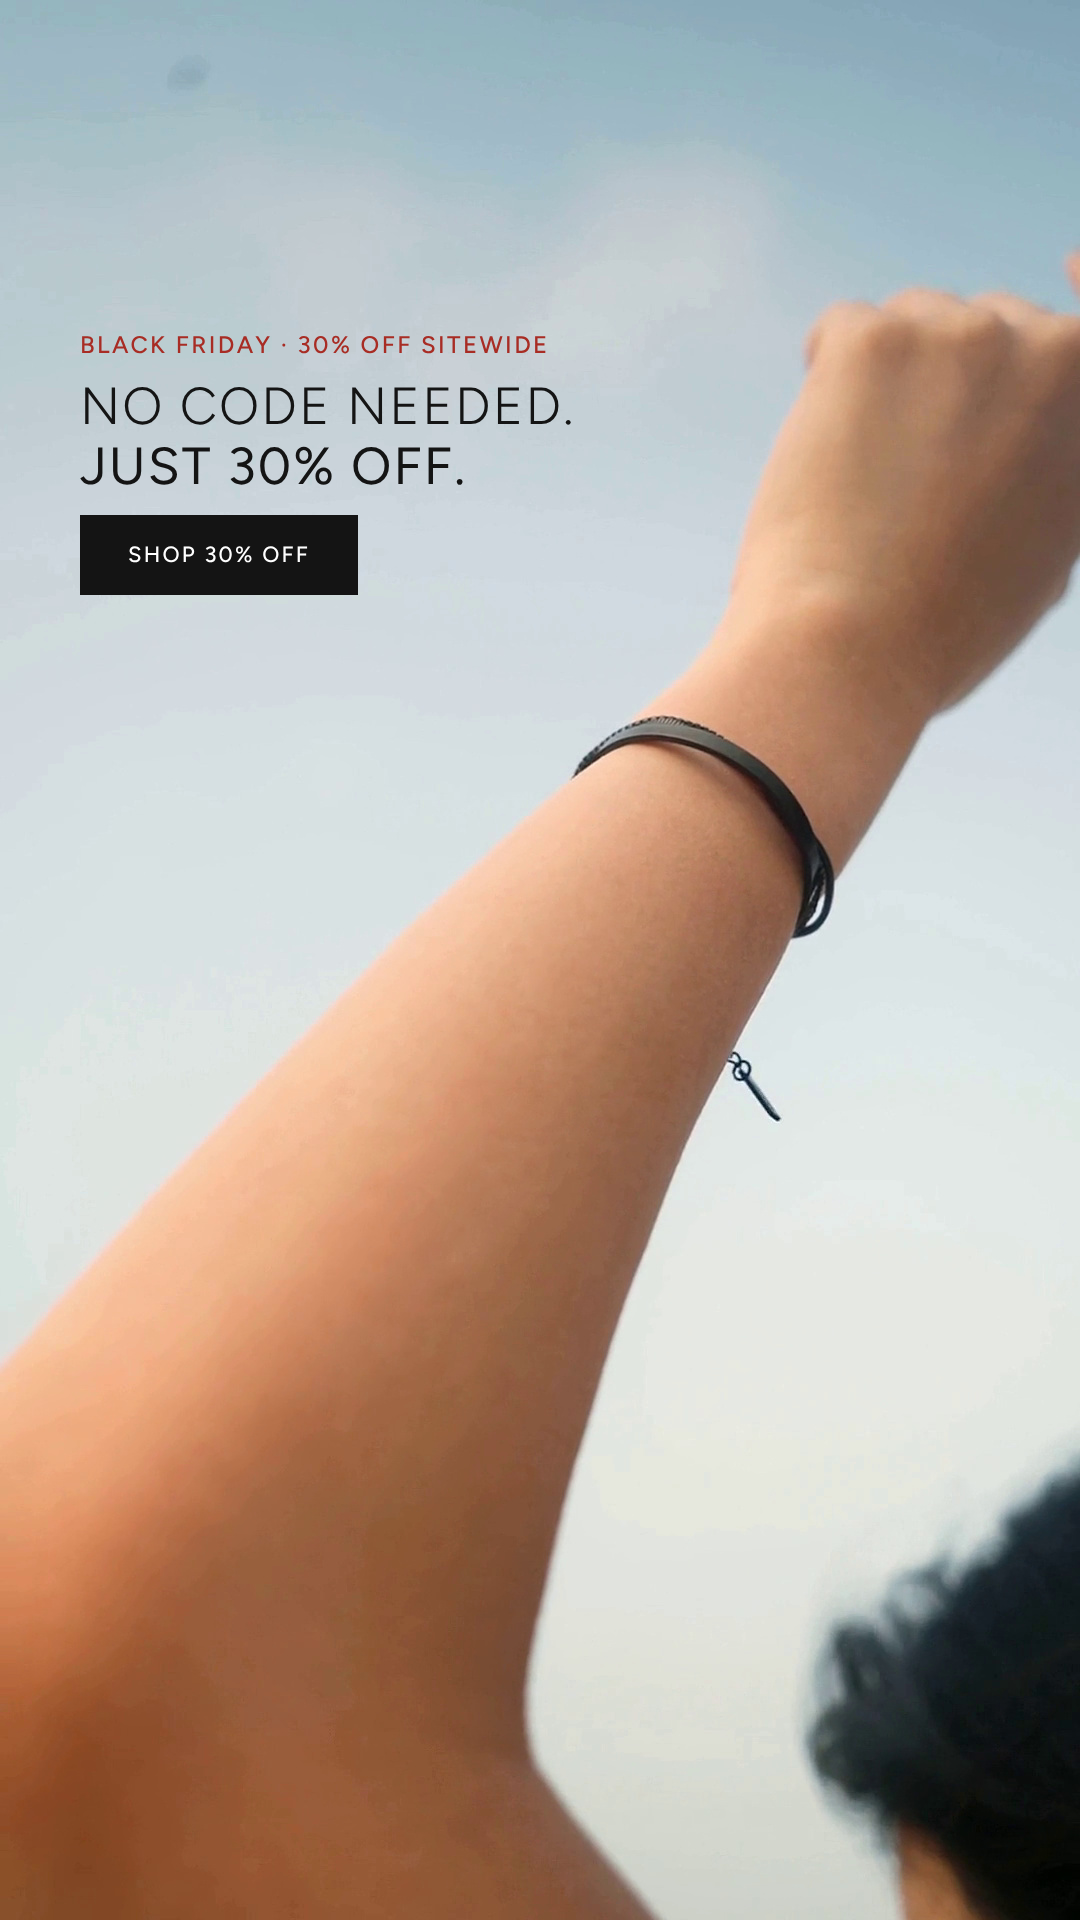
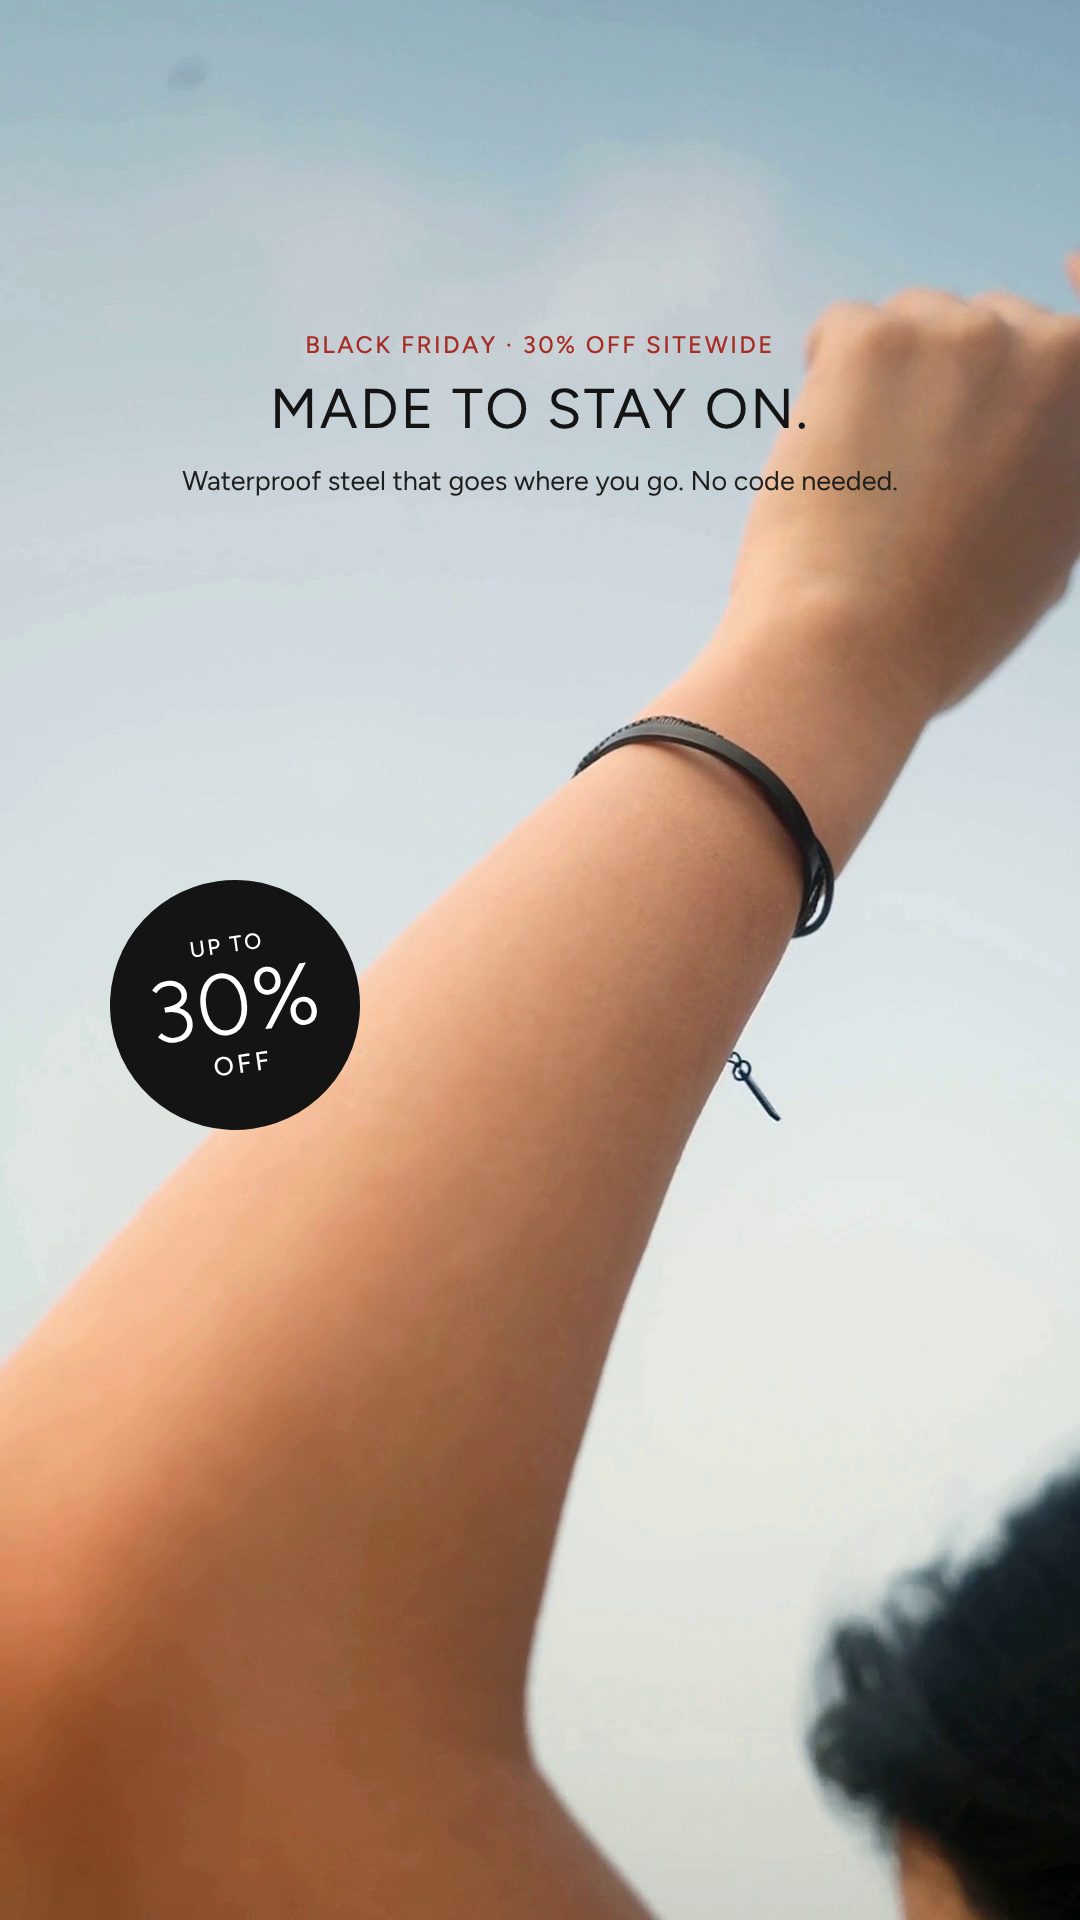
W424 statics redesigned on IM8 references (refs board added); rule: stills from video still follow the IM8 flow
Claude-Session: https://claude.ai/code/session_01LtGMNmy7hV4kZNsS3Vsb6Q

Changed region(s): [[0.0611, 0.1562, 0.7333, 0.3125], [0.0917, 0.4375, 0.3361, 0.5938]]

diff --git a/bfcm26/canvas/W424-C2.dc.html b/bfcm26/canvas/W424-C2.dc.html
@@ -2,7 +2,7 @@
 <html lang="en">
 <head>
 <meta charset="utf-8">
-<title>W Batch 424 - C2 Sea air</title>
+<title>W Batch 424 - C2 Waterproof list (IM8 r18)</title>
 <script src="./support.js"></script>
 </head>
 <body>
@@ -14,13 +14,12 @@ body{margin:0}
 a{color:#141414}a:hover{color:#000000}
 </style>
 </helmet>
-<div style="width: 1080px; height: 1920px; position: relative; overflow: hidden; background: #E9E5DE; font-family: Figtree, sans-serif; color: #141414">
-
-
-<img src="/_blob/08acbbbc3ef5076e01570003f922c095" alt="An arm held out over the sea wearing black chains, sand below" style="position: absolute; top: 0; left: 0; width: 1080px; height: 1920px; object-fit: cover; display: block">
-<div style="position: absolute; top: 1260px; left: 80px; width: 920px; display: flex; flex-direction: column; align-items: flex-start; gap: 18px; text-align: left">
+<div style="width: 1080px; height: 1920px; position: relative; overflow: hidden; background: #F3F0EB; font-family: Figtree, sans-serif; color: #141414">
+<img src="/_blob/08acbbbc3ef5076e01570003f922c095" alt="An arm held out over the sea wearing black chains" style="position: absolute; top: 300px; left: 0; width: 500px; height: 1240px; object-fit: cover; object-position: 72% 50%; display: block">
+<div style="position: absolute; top: 470px; left: 550px; width: 470px; display: flex; flex-direction: column; align-items: flex-start; gap: 26px">
 <span style="font-size: 22px; font-weight: 500; letter-spacing: 0.1em; color: #A82C24">BLACK FRIDAY · 30% OFF SITEWIDE</span>
-<h1 style="margin: 0; font-size: 52px; line-height: 1.15; letter-spacing: 0.04em; font-weight: 300; text-transform: uppercase">Waterproof.<br><span style="font-weight: 400">30% off.</span></h1>
+<h1 style="margin: 0; font-size: 46px; line-height: 1.2; letter-spacing: 0.04em; font-weight: 300; text-transform: uppercase"><span style="font-weight: 500">Waterproof.</span><br>Recycled 316L.<br>Sizes S/M/L.</h1>
+<ul style="margin: 0; padding: 0; list-style: none; display: flex; flex-direction: column; gap: 18px; font-size: 26px; font-weight: 400; color: #2E2E2C"><li style="display: flex; align-items: center; gap: 16px"><span style="width: 10px; height: 10px; border: 2px solid #141414; border-radius: 50%; flex: none"></span>Sweat and heat resistant</li><li style="display: flex; align-items: center; gap: 16px"><span style="width: 10px; height: 10px; border: 2px solid #141414; border-radius: 50%; flex: none"></span>Black, silver or gold</li><li style="display: flex; align-items: center; gap: 16px"><span style="width: 10px; height: 10px; border: 2px solid #141414; border-radius: 50%; flex: none"></span>Jewelry case included</li><li style="display: flex; align-items: center; gap: 16px"><span style="width: 10px; height: 10px; border: 2px solid #141414; border-radius: 50%; flex: none"></span>Free shipping</li><li style="display: flex; align-items: center; gap: 16px"><span style="width: 10px; height: 10px; border: 2px solid #141414; border-radius: 50%; flex: none"></span>Trustpilot 4.5 · 3,000+ reviews</li></ul>
 <a href="https://cavaier.com/products/3x-minimal-stack-set-for-her" style="display: inline-flex; align-items: center; justify-content: center; height: 80px; padding: 0 48px; background: #141414; color: #FFFFFF; text-decoration: none; font-size: 22px; font-weight: 500; letter-spacing: 0.1em">SHOP 30% OFF</a>
 </div>
 </div>

diff --git a/bfcm26/canvas/W424-C1.dc.html b/bfcm26/canvas/W424-C1.dc.html
@@ -2,7 +2,7 @@
 <html lang="en">
 <head>
 <meta charset="utf-8">
-<title>W Batch 424 - C1 Golden stack</title>
+<title>W Batch 424 - C1 Sun salt sea (IM8 r1)</title>
 <script src="./support.js"></script>
 </head>
 <body>
@@ -14,15 +14,14 @@ body{margin:0}
 a{color:#141414}a:hover{color:#000000}
 </style>
 </helmet>
-<div style="width: 1080px; height: 1920px; position: relative; overflow: hidden; background: #EFEDEA; font-family: Figtree, sans-serif; color: #141414">
-
-
-<img src="/_blob/6f2f4e17ab27749d6e08ca36ed9cb5ae" alt="The gold 3x Minimal - Stack Set shining on a sun-kissed wrist resting in the sand" style="position: absolute; top: 0; left: 0; width: 1080px; height: 1090px; object-fit: cover; object-position: 50% 42%; display: block">
-<div style="position: absolute; top: 1125px; left: 0; width: 1080px; display: flex; flex-direction: column; align-items: center; gap: 18px; text-align: center">
-<img src="/_blob/b5d78a878b48e10609c923597dd1852e" alt="Cavaier" style="width: 110px; height: auto; display: block">
+<div style="width: 1080px; height: 1920px; position: relative; overflow: hidden; background: #EEEAE4; font-family: Figtree, sans-serif; color: #141414">
+<img src="/_blob/6f2f4e17ab27749d6e08ca36ed9cb5ae" alt="The gold 3x Minimal - Stack Set shining on a sun-kissed wrist resting in the sand" style="position: absolute; top: 0; left: 0; width: 1080px; height: 1060px; object-fit: cover; object-position: 50% 46%; display: block">
+<img src="/_blob/b5d78a878b48e10609c923597dd1852e" alt="Cavaier" style="position: absolute; top: 300px; left: 485px; width: 110px; height: auto; display: block">
+<div style="position: absolute; top: 1060px; left: 0; width: 1080px; height: 860px; background: #EEEAE4"></div>
+<div style="position: absolute; top: 1110px; left: 80px; width: 920px; display: flex; flex-direction: column; align-items: flex-start; gap: 18px">
 <span style="font-size: 22px; font-weight: 500; letter-spacing: 0.1em; color: #A82C24">BLACK FRIDAY · 30% OFF SITEWIDE</span>
-<h1 style="margin: 0; font-size: 52px; line-height: 1.15; letter-spacing: 0.04em; font-weight: 300; text-transform: uppercase">The golden stack.<br><span style="font-weight: 400">30% off.</span></h1>
-<p style="margin: 0; font-size: 27px; line-height: 1.6; font-weight: 300; color: #2E2E2C; max-width: 720px">Waterproof, recycled 316L steel, adjustable S/M/L. No code needed.</p>
+<h1 style="margin: 0; font-size: 52px; line-height: 1.15; letter-spacing: 0.04em; font-weight: 300; text-transform: uppercase">Sun, salt and sea.<br><span style="font-weight: 500">It stays on.</span></h1>
+<p style="margin: 0; font-size: 27px; line-height: 1.6; font-weight: 300; color: #2E2E2C; max-width: 760px">Waterproof, recycled 316L steel, adjustable S/M/L. 30% off sitewide, no code needed.</p>
 <a href="https://cavaier.com/products/3x-minimal-stack-set-for-her" style="display: inline-flex; align-items: center; justify-content: center; height: 80px; padding: 0 48px; background: #141414; color: #FFFFFF; text-decoration: none; font-size: 22px; font-weight: 500; letter-spacing: 0.1em">SHOP 30% OFF</a>
 </div>
 </div>

diff --git a/bfcm26/canvas/W424-C3.dc.html b/bfcm26/canvas/W424-C3.dc.html
@@ -2,7 +2,7 @@
 <html lang="en">
 <head>
 <meta charset="utf-8">
-<title>W Batch 424 - C3 Blue sky</title>
+<title>W Batch 424 - C3 Made to stay on (IM8 r12)</title>
 <script src="./support.js"></script>
 </head>
 <body>
@@ -15,13 +15,16 @@ a{color:#141414}a:hover{color:#000000}
 </style>
 </helmet>
 <div style="width: 1080px; height: 1920px; position: relative; overflow: hidden; background: #DCE6EE; font-family: Figtree, sans-serif; color: #141414">
-
-
 <img src="/_blob/dd79e57d38304f9f650bf66593c4c24b" alt="A sun-kissed arm raised against a pale blue sky wearing black chains" style="position: absolute; top: 0; left: 0; width: 1080px; height: 1920px; object-fit: cover; display: block">
-<div style="position: absolute; top: 330px; left: 80px; width: 920px; display: flex; flex-direction: column; align-items: flex-start; gap: 18px; text-align: left">
+<div style="position: absolute; top: 330px; left: 80px; width: 920px; display: flex; flex-direction: column; align-items: center; gap: 18px; text-align: center">
 <span style="font-size: 24px; font-weight: 500; letter-spacing: 0.1em; color: #A82C24">BLACK FRIDAY · 30% OFF SITEWIDE</span>
-<h1 style="margin: 0; font-size: 52px; line-height: 1.15; letter-spacing: 0.04em; font-weight: 300; text-transform: uppercase">No code needed.<br><span style="font-weight: 400">Just 30% off.</span></h1>
-<a href="https://cavaier.com/products/3x-minimal-stack-set-for-her" style="display: inline-flex; align-items: center; justify-content: center; height: 80px; padding: 0 48px; background: #141414; color: #FFFFFF; text-decoration: none; font-size: 22px; font-weight: 500; letter-spacing: 0.1em">SHOP 30% OFF</a>
+<h1 style="margin: 0; font-size: 56px; line-height: 1.15; letter-spacing: 0.04em; font-weight: 400; text-transform: uppercase">Made to stay on.</h1>
+<p style="margin: 0; font-size: 27px; line-height: 1.6; font-weight: 400; color: #1E1E1C; max-width: 720px">Waterproof steel that goes where you go. No code needed.</p>
+</div>
+<div style="position: absolute; top: 880px; left: 110px; width: 250px; height: 250px; border-radius: 50%; background: #141414; color: #FFFFFF; display: flex; flex-direction: column; align-items: center; justify-content: center; gap: 2px; transform: rotate(-8deg)">
+<span style="font-size: 22px; font-weight: 500; letter-spacing: 0.1em">UP TO</span>
+<span style="font-size: 86px; font-weight: 300; line-height: 1; letter-spacing: 0.02em">30%</span>
+<span style="font-size: 26px; font-weight: 500; letter-spacing: 0.14em">OFF</span>
 </div>
 </div>
 </x-dc>

diff --git a/bfcm26/canvas/Refs-W424.dc.html b/bfcm26/canvas/Refs-W424.dc.html
@@ -1,0 +1,28 @@
+<!doctype html>
+<html lang="en">
+<head>
+<meta charset="utf-8">
+<title>W Batch 424 · IM8 refs</title>
+<script src="./support.js"></script>
+</head>
+<body>
+<x-dc>
+<helmet>
+<link href="https://fonts.googleapis.com/css2?family=Figtree:wght@400;500&amp;display=swap" rel="stylesheet">
+<style>
+body{margin:0}
+</style>
+</helmet>
+<div style="width: 420px; height: 1920px; box-sizing: border-box; padding: 20px 45px; background: #F2F2F1; font-family: Figtree, sans-serif; color: #141414; display: flex; flex-direction: column; gap: 22px">
+<figure style="margin: 0; display: flex; flex-direction: column; gap: 8px"><img src="/_blob/e1af2b2909a612ae2d77a2be329f17d5" alt="IM8 reference for C1" style="width: 330px; height: 560px; object-fit: cover; display: block"><figcaption style="font-size: 18px; font-weight: 500; letter-spacing: 0.06em">C1 · IM8 · photo top + colour panel, two-weight headline</figcaption></figure>
+<figure style="margin: 0; display: flex; flex-direction: column; gap: 8px"><img src="/_blob/cfe0c6b4904c4fd36b786b49b5e5ad80" alt="IM8 reference for C2" style="width: 330px; height: 560px; object-fit: cover; display: block"><figcaption style="font-size: 18px; font-weight: 500; letter-spacing: 0.06em">C2 · IM8 · product left, stacked headline + claim list</figcaption></figure>
+<figure style="margin: 0; display: flex; flex-direction: column; gap: 8px"><img src="/_blob/5570f04181c1407ca9b11a401f78e6f7" alt="IM8 reference for C3" style="width: 330px; height: 560px; object-fit: cover; display: block"><figcaption style="font-size: 18px; font-weight: 500; letter-spacing: 0.06em">C3 · IM8 · full bleed, centred headline + round offer badge</figcaption></figure>
+</div>
+</x-dc>
+<script type="text/x-dc" data-dc-script data-props='{"$preview":{"width":420,"height":1920}}'>
+class Component extends DCLogic {
+  renderVals() { return {}; }
+}
+</script>
+</body>
+</html>

diff --git a/CLAUDE.md b/CLAUDE.md
@@ -47,6 +47,7 @@ Before making any new batch, always ask Eli which method to use, with one short 
   - Keep it simple: grab the still from the graded video, the same look as the Frame Method ad (`grade.py` on the frame), and build the static on it.
   - No extra grading pipeline. Eli rejected the pro_grade / retouch / finish passes on W421; the scripts stay in `bfcm26/video-ad/` but are not the standard.
   - Cropping is free, for variety.
+  - The layout still follows the IM8 flow (Eli, W424): each C copies its own IM8 Health static from Trendtrack, and an IM8 refs board goes in the row. A plain text-on-photo layout is not enough.
 - For the delivery upload, use the Frame.io API flow under **Delivery**. The RAW footage is read through the public share in a headless browser (FRAME_METHOD.md §4).
 
 ## Workflow
